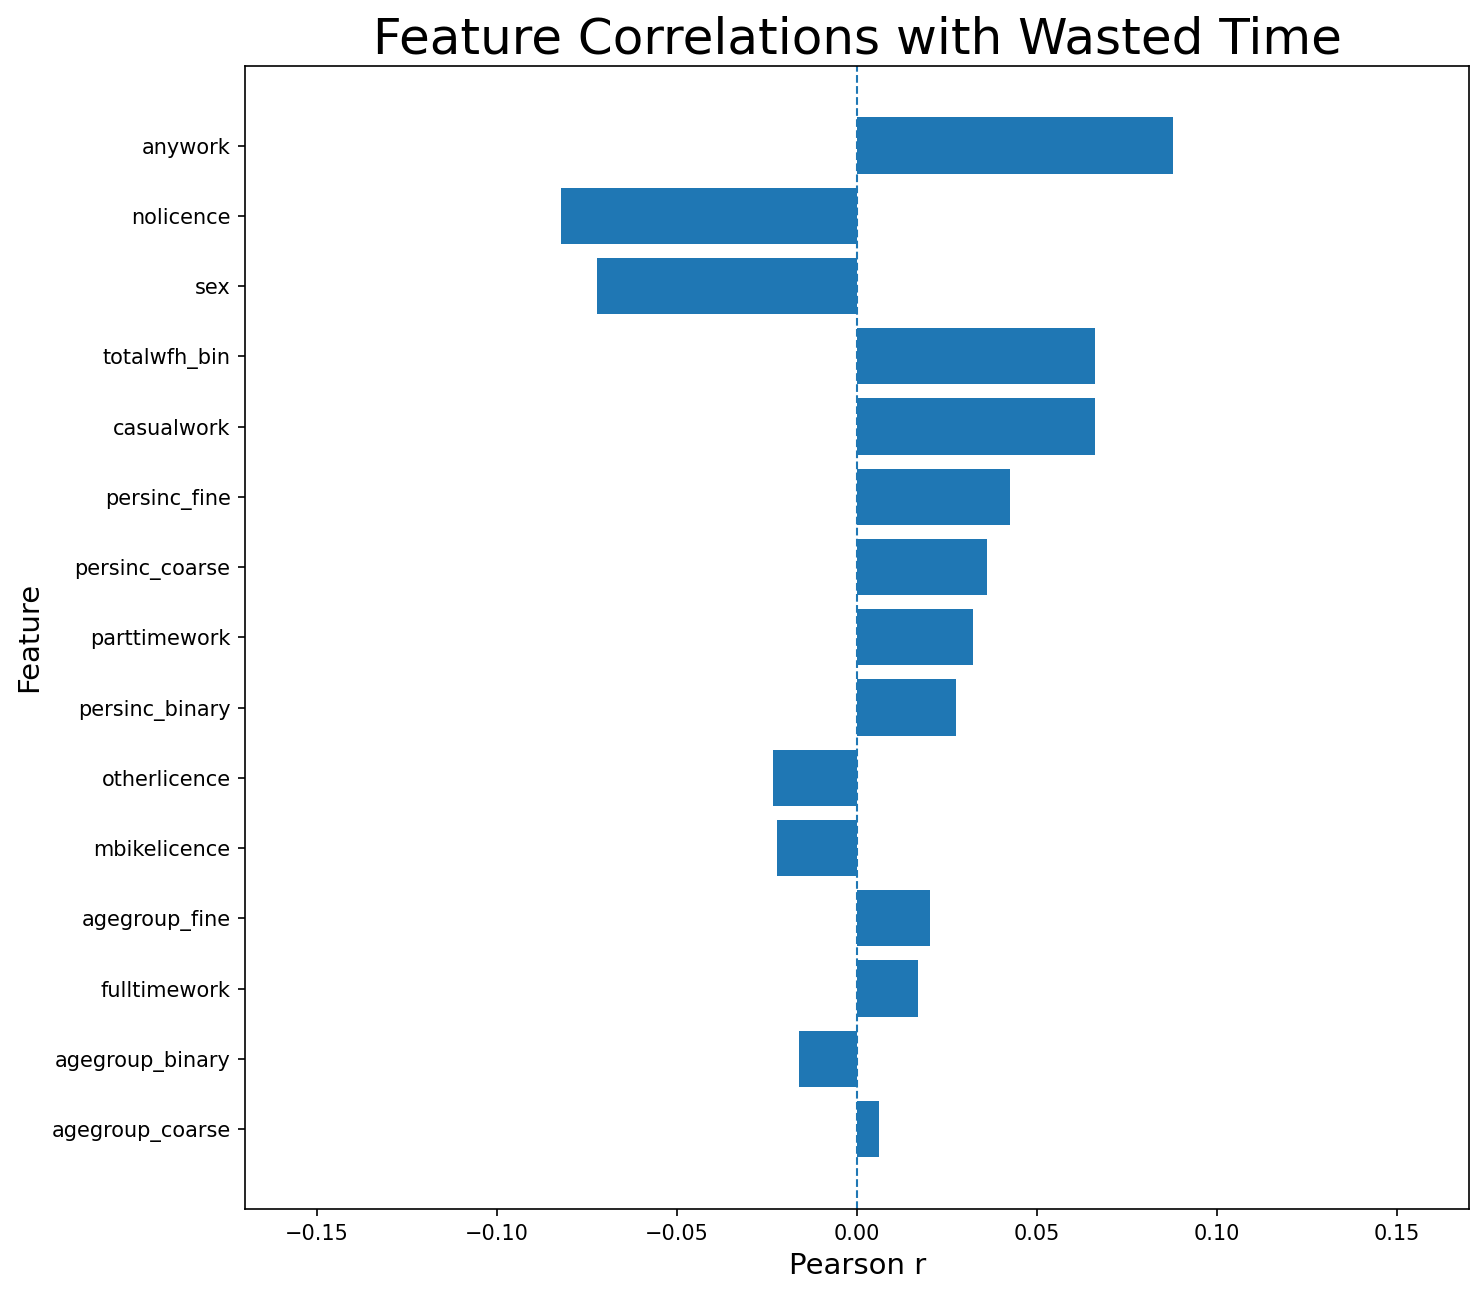
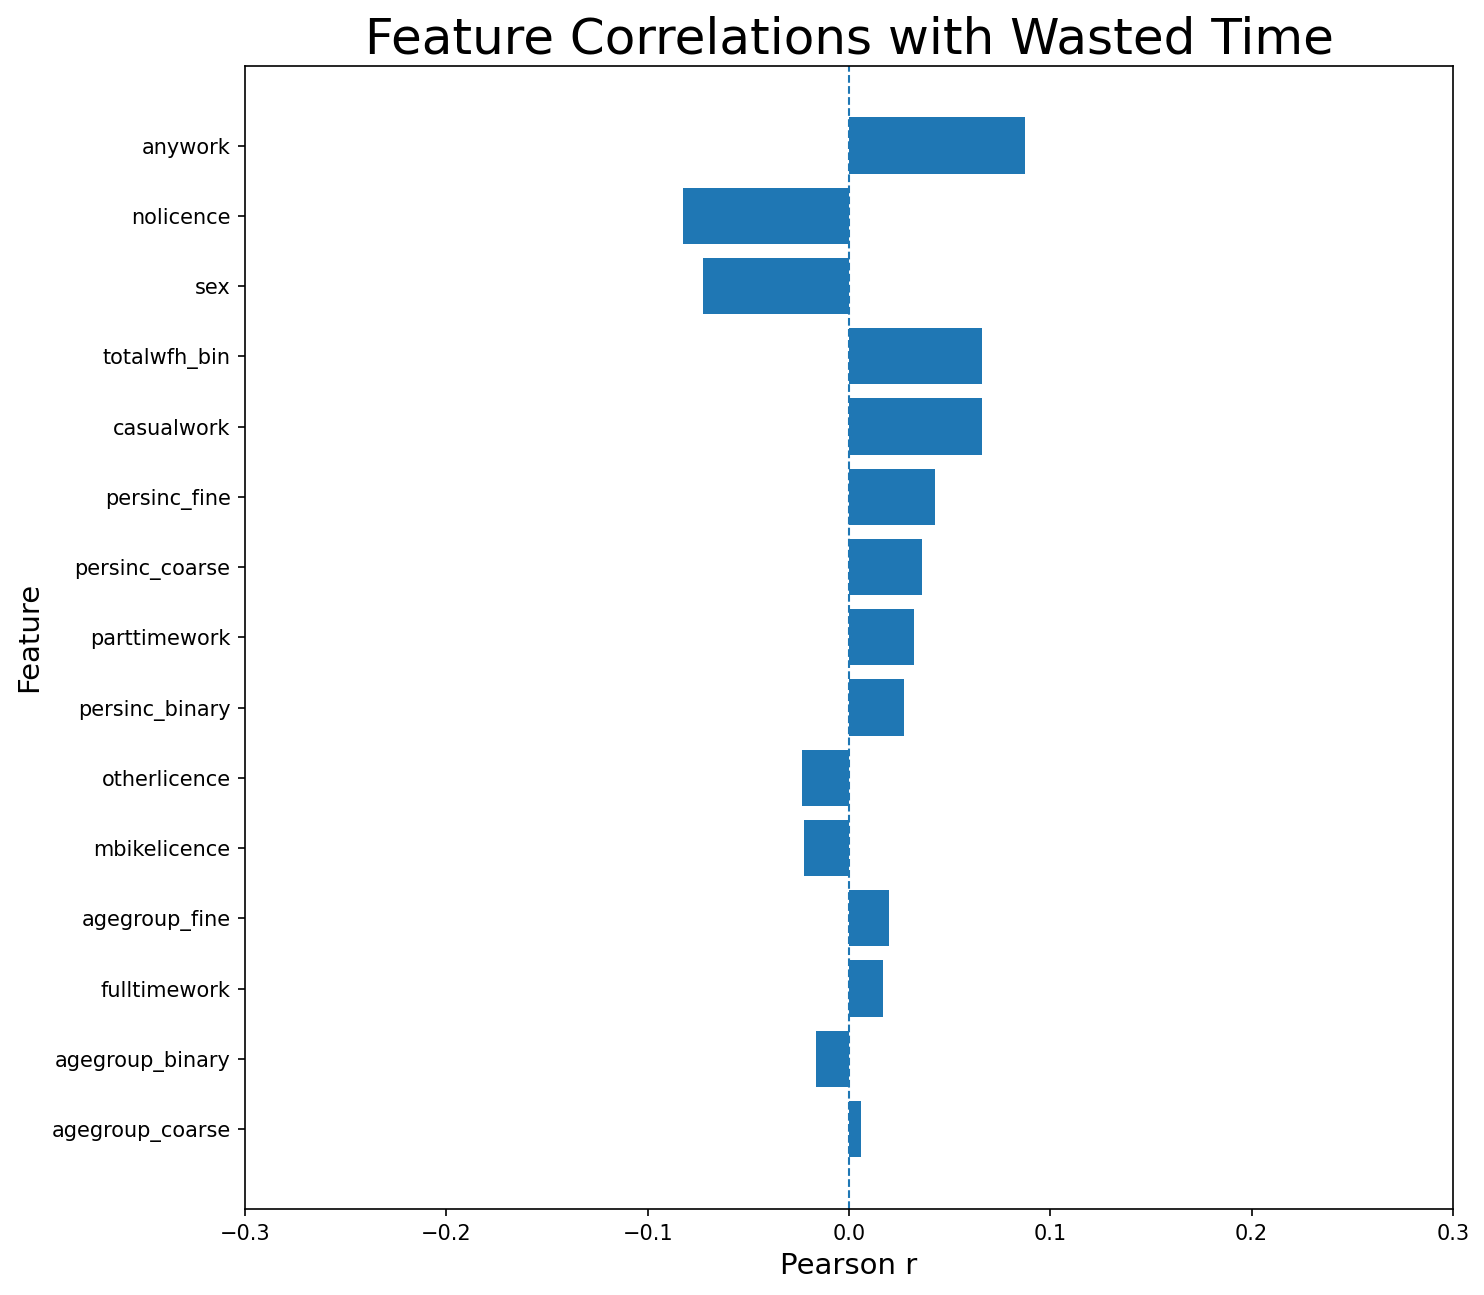
Added trip efficiency corr

diff --git a/correlation.py b/correlation.py
@@ -70,7 +70,7 @@ def plot_bar(series, xlabel, title, out_path):
     ax.barh(series.index, series.values)
     ax.axvline(0, linestyle="--", linewidth=1)
     # Manually set x axis scale for easier graph comparisons
-    ax.set_xlim(-0.17, 0.17)
+    ax.set_xlim(-0.3, 0.3)
     ax.set_xlabel(xlabel, fontsize=LABEL_SIZE)
     ax.set_ylabel("Feature", fontsize=LABEL_SIZE)
     ax.set_title(title, fontsize=TITLE_SIZE)
@@ -134,6 +134,15 @@ def corr_analysis():
         out_path=os.path.join(OUT_DIR, "wasted_time.png"),
     )
     travel_mode_corr(df, x, out_dir=OUT_DIR)
+
+    y_eff = df["overall_trip_efficiency"].astype(float)
+    ranks_eff = corr_values(x, y_eff)
+    plot_bar(
+        ranks_eff,
+        xlabel="Pearson r",
+        title="Feature Correlations with Overall Trip Efficiency",
+        out_path=os.path.join(OUT_DIR, "trip_efficiency.png"),
+    )
 
 # Run program
 if __name__ == "__main__":
